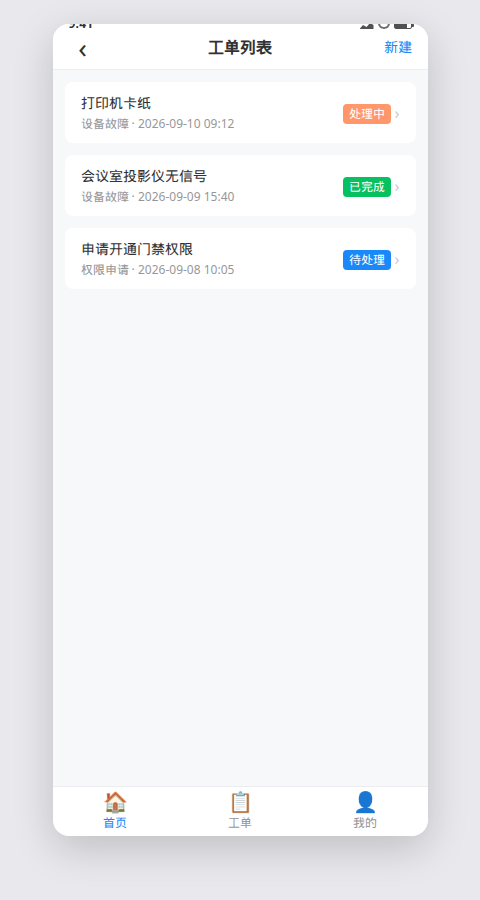
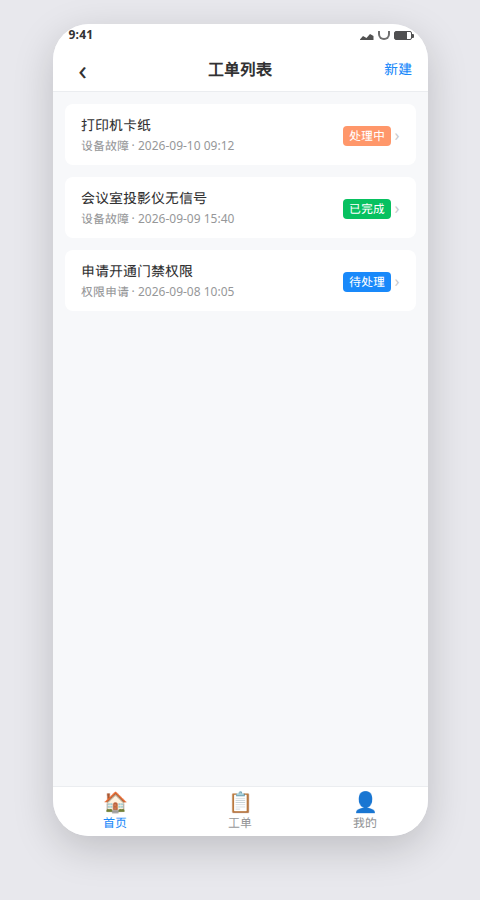
Fix mobile preview status bar clipping and enlarge phone frame radius
- Place status bar in normal flex flow inside the phone shell
- Remove duplicate nav-bar safe-area padding on desktop preview
- Increase preview frame radius to 36px
- Fix CSS order so desktop status bar is not overridden by display:none

diff --git a/examples/mobile-work-order/prototype/prototype.css b/examples/mobile-work-order/prototype/prototype.css
@@ -31,10 +31,12 @@
   /* Layout */
   --mv-viewport-width: 375px;
   --mv-frame-radius: 16px;
+  --mv-preview-frame-radius: 36px;
   --mv-nav-bar-height: 46px;
   --mv-tab-bar-height: 50px;
-  --mv-safe-area-top: env(safe-area-inset-top, 20px);
+  --mv-safe-area-top: env(safe-area-inset-top, 0px);
   --mv-safe-area-bottom: env(safe-area-inset-bottom, 0px);
+  --mv-preview-safe-area-top: 22px;
   --mv-overlay-color: rgba(0, 0, 0, 0.7);
 
   /* Touch */
@@ -80,62 +82,103 @@ ul, ol {
 }
 
 /* ---- page switching (example-owned layout) ---- */
-.pn-preview {
-  background: #e8e8ed;
-}
-
-#uiPreview {
-  position: relative;
-  width: min(100%, var(--mv-viewport-width));
-  max-width: var(--mv-viewport-width);
-  margin: 24px auto;
-  min-height: calc(100vh - 48px);
-}
-
 .mv-list-page,
 .mv-form-page {
   display: none;
 }
 
-.mv-list-page.is-active {
+.mv-list-page.is-active,
+.mv-form-page.is-active {
   position: relative;
-  width: min(100%, var(--mv-viewport-width));
-  min-height: 812px;
-  margin: 0 auto;
+  width: 100%;
+  min-height: 100vh;
+  margin: 0;
   display: flex;
   flex-direction: column;
   background: var(--mv-background);
-  border-radius: var(--mv-frame-radius);
   overflow: hidden;
-  box-shadow: 0 12px 40px rgba(0, 0, 0, 0.18);
+}
+
+.mv-list-page.is-active {
   padding-bottom: calc(var(--mv-tab-bar-height) + var(--mv-safe-area-bottom));
 }
 
 .mv-form-page.is-active {
-  position: relative;
-  width: min(100%, var(--mv-viewport-width));
-  min-height: 812px;
-  margin: 0 auto;
-  display: flex;
-  flex-direction: column;
-  background: var(--mv-background);
-  border-radius: var(--mv-frame-radius);
-  overflow: hidden;
-  box-shadow: 0 12px 40px rgba(0, 0, 0, 0.18);
   padding-bottom: var(--mv-safe-area-bottom);
 }
 
-/* ---- example-only device status bar (prototype preview chrome) ---- */
+/* Desktop preview: show a centered phone frame with status-bar chrome. */
+@media (min-width: 420px) {
+  :root {
+    /* Status bar is a flex row inside the frame; nav bar should not add safe-area again. */
+    --mv-safe-area-top: 0px;
+  }
+
+  .pn-preview {
+    background: #e8e8ed;
+  }
+
+  #uiPreview {
+    position: relative;
+    width: min(100%, var(--mv-viewport-width));
+    max-width: var(--mv-viewport-width);
+    margin: 24px auto;
+    min-height: calc(100vh - 48px);
+  }
+
+  .mv-list-page.is-active,
+  .mv-form-page.is-active {
+    width: min(100%, var(--mv-viewport-width));
+    min-height: 812px;
+    margin: 0 auto;
+    border-radius: var(--mv-preview-frame-radius);
+    box-shadow: 0 12px 40px rgba(0, 0, 0, 0.18);
+  }
+
+  .mv-device-status {
+    display: flex;
+    border-radius: var(--mv-preview-frame-radius) var(--mv-preview-frame-radius) 0 0;
+  }
+
+  .mv-nav-bar {
+    min-height: var(--mv-nav-bar-height);
+    padding-top: 0;
+  }
+
+  .mv-tab-bar {
+    border-radius: 0 0 var(--mv-preview-frame-radius) var(--mv-preview-frame-radius);
+  }
+}
+
+/* Real mobile: full-bleed app shell; rely on the OS status bar and safe area. */
+@media (max-width: 419px) {
+  .pn-preview,
+  body {
+    background: var(--mv-background);
+  }
+
+  #uiPreview {
+    width: 100%;
+    max-width: none;
+    margin: 0;
+    min-height: 100vh;
+  }
+
+  .mv-device-status {
+    display: none;
+  }
+
+  .mv-tab-bar {
+    border-radius: 0;
+  }
+}
+
+/* ---- example-only device status bar (desktop prototype preview chrome) ---- */
 .mv-device-status {
-  position: absolute;
-  top: 0;
-  left: 0;
-  right: 0;
-  z-index: 12;
-  display: flex;
+  flex-shrink: 0;
   align-items: center;
   justify-content: space-between;
-  height: var(--mv-safe-area-top);
+  min-height: var(--mv-preview-safe-area-top);
   padding: 0 16px;
   background: var(--mv-white);
   pointer-events: none;
